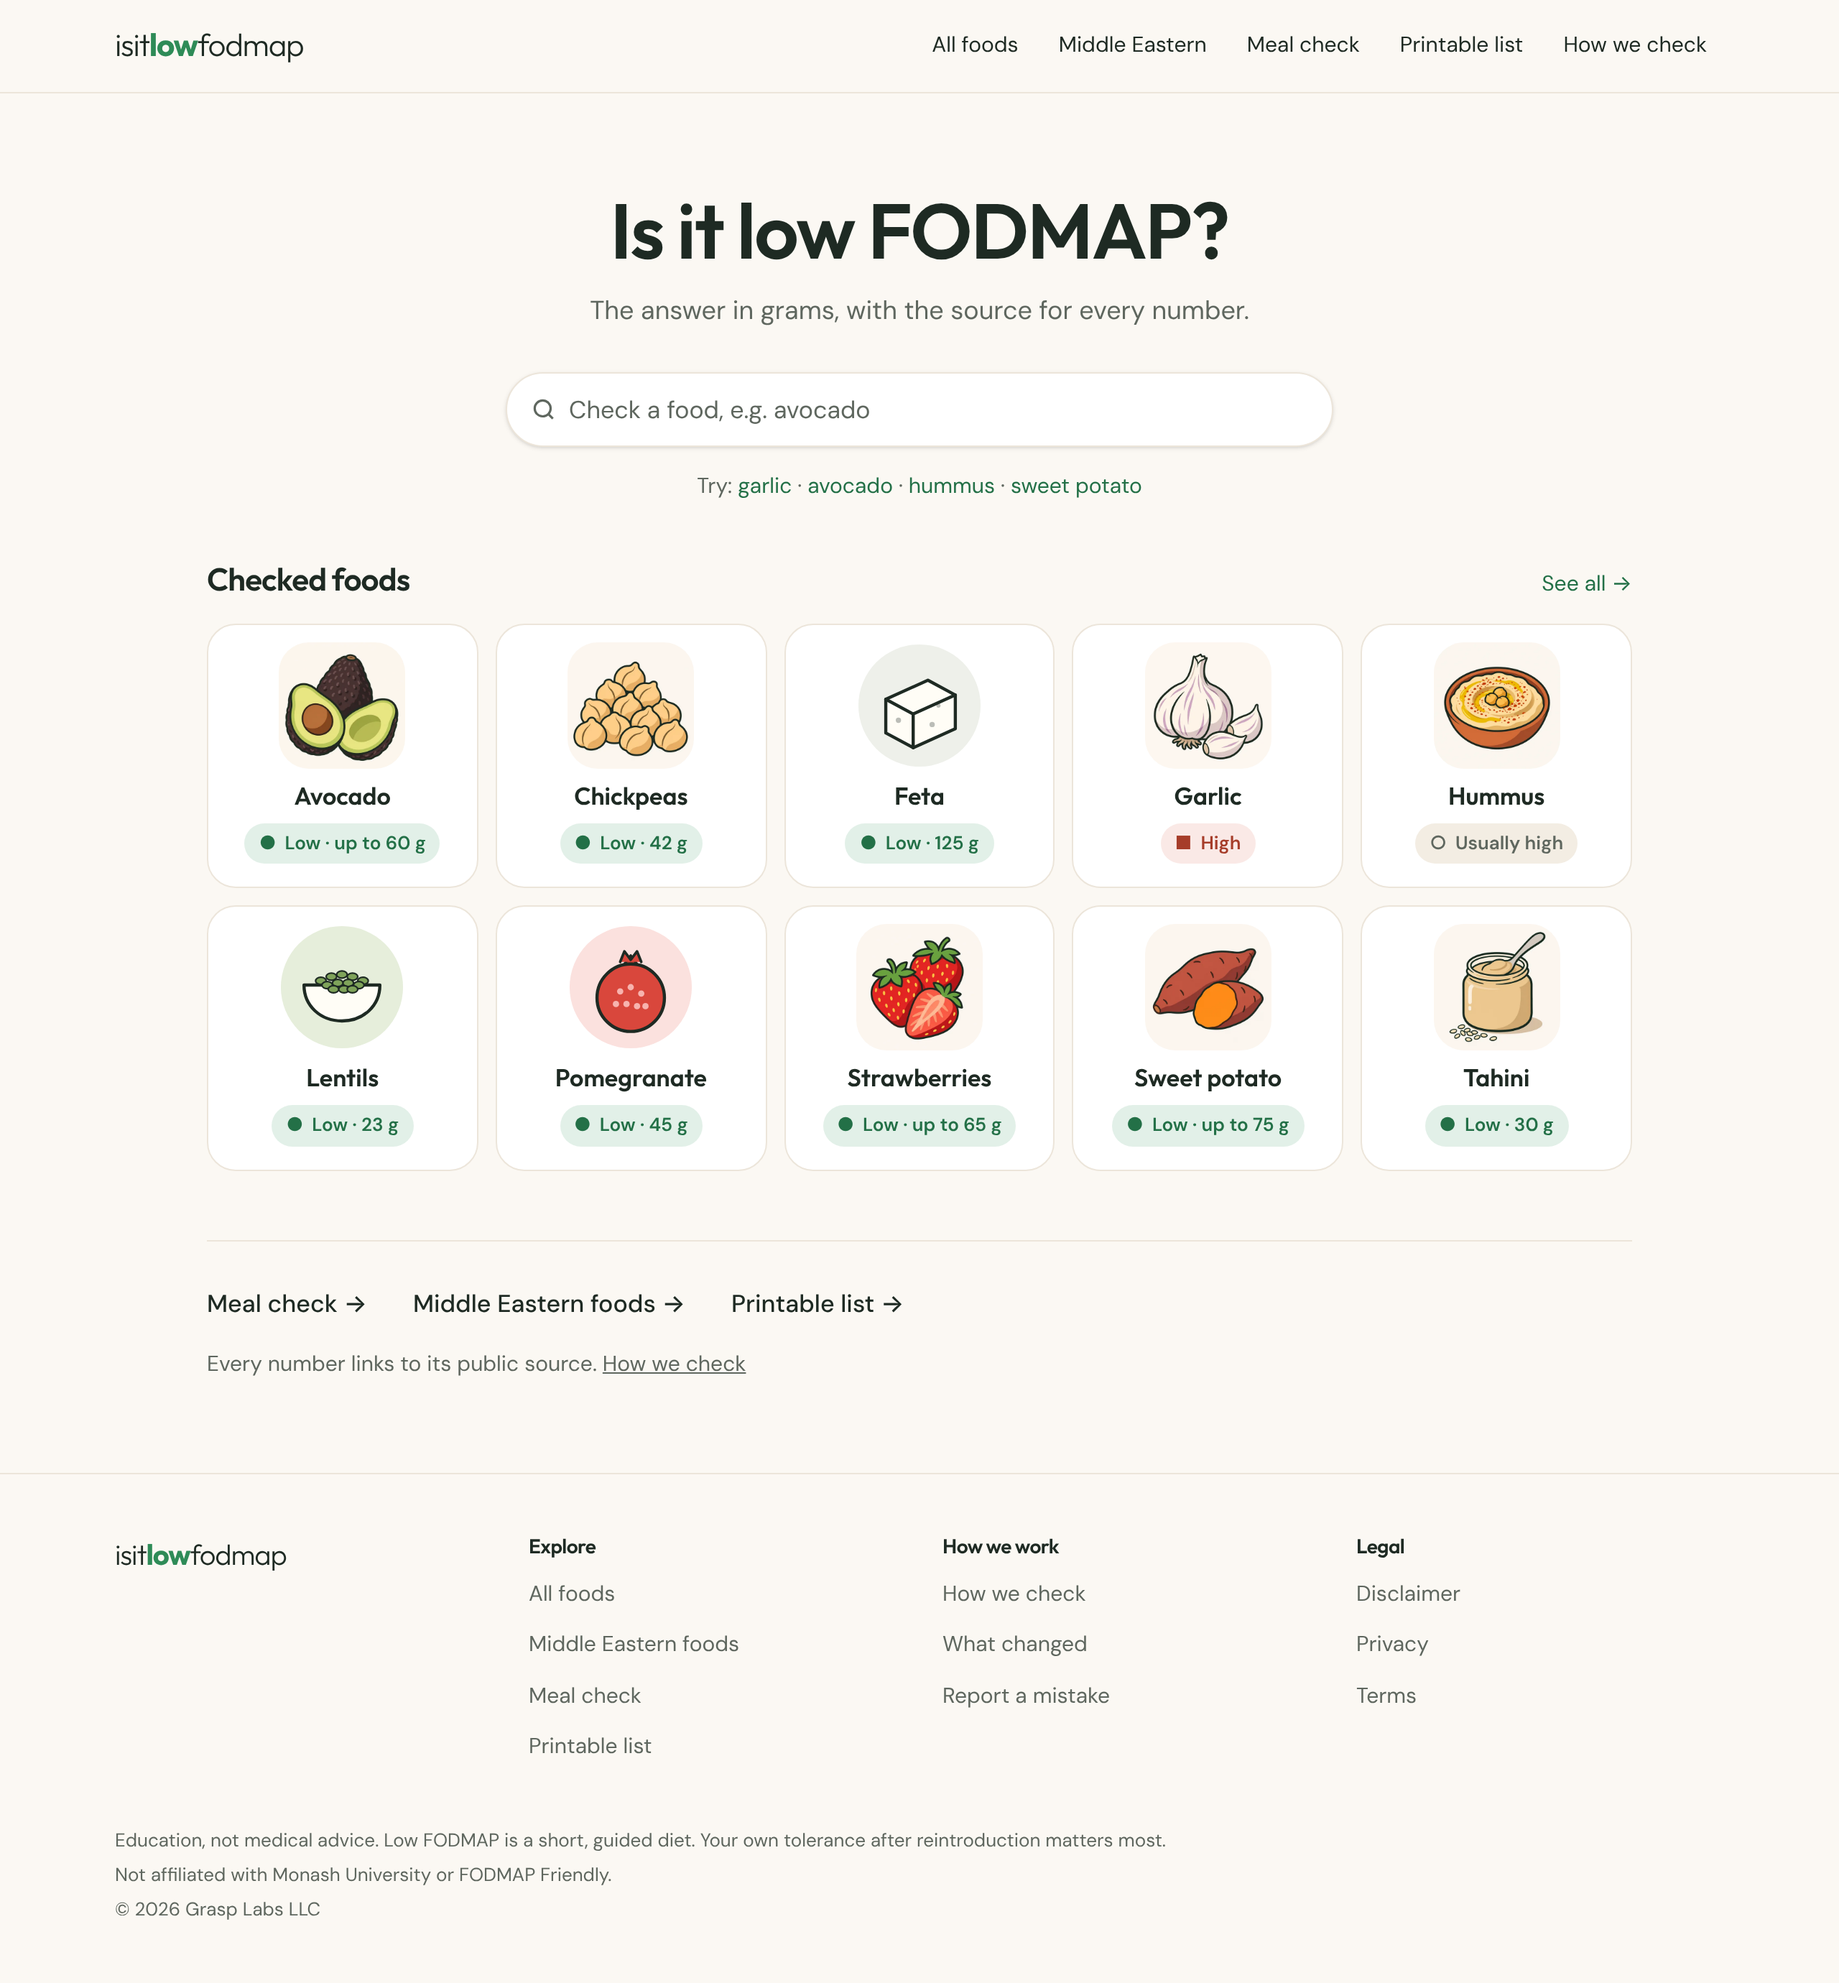
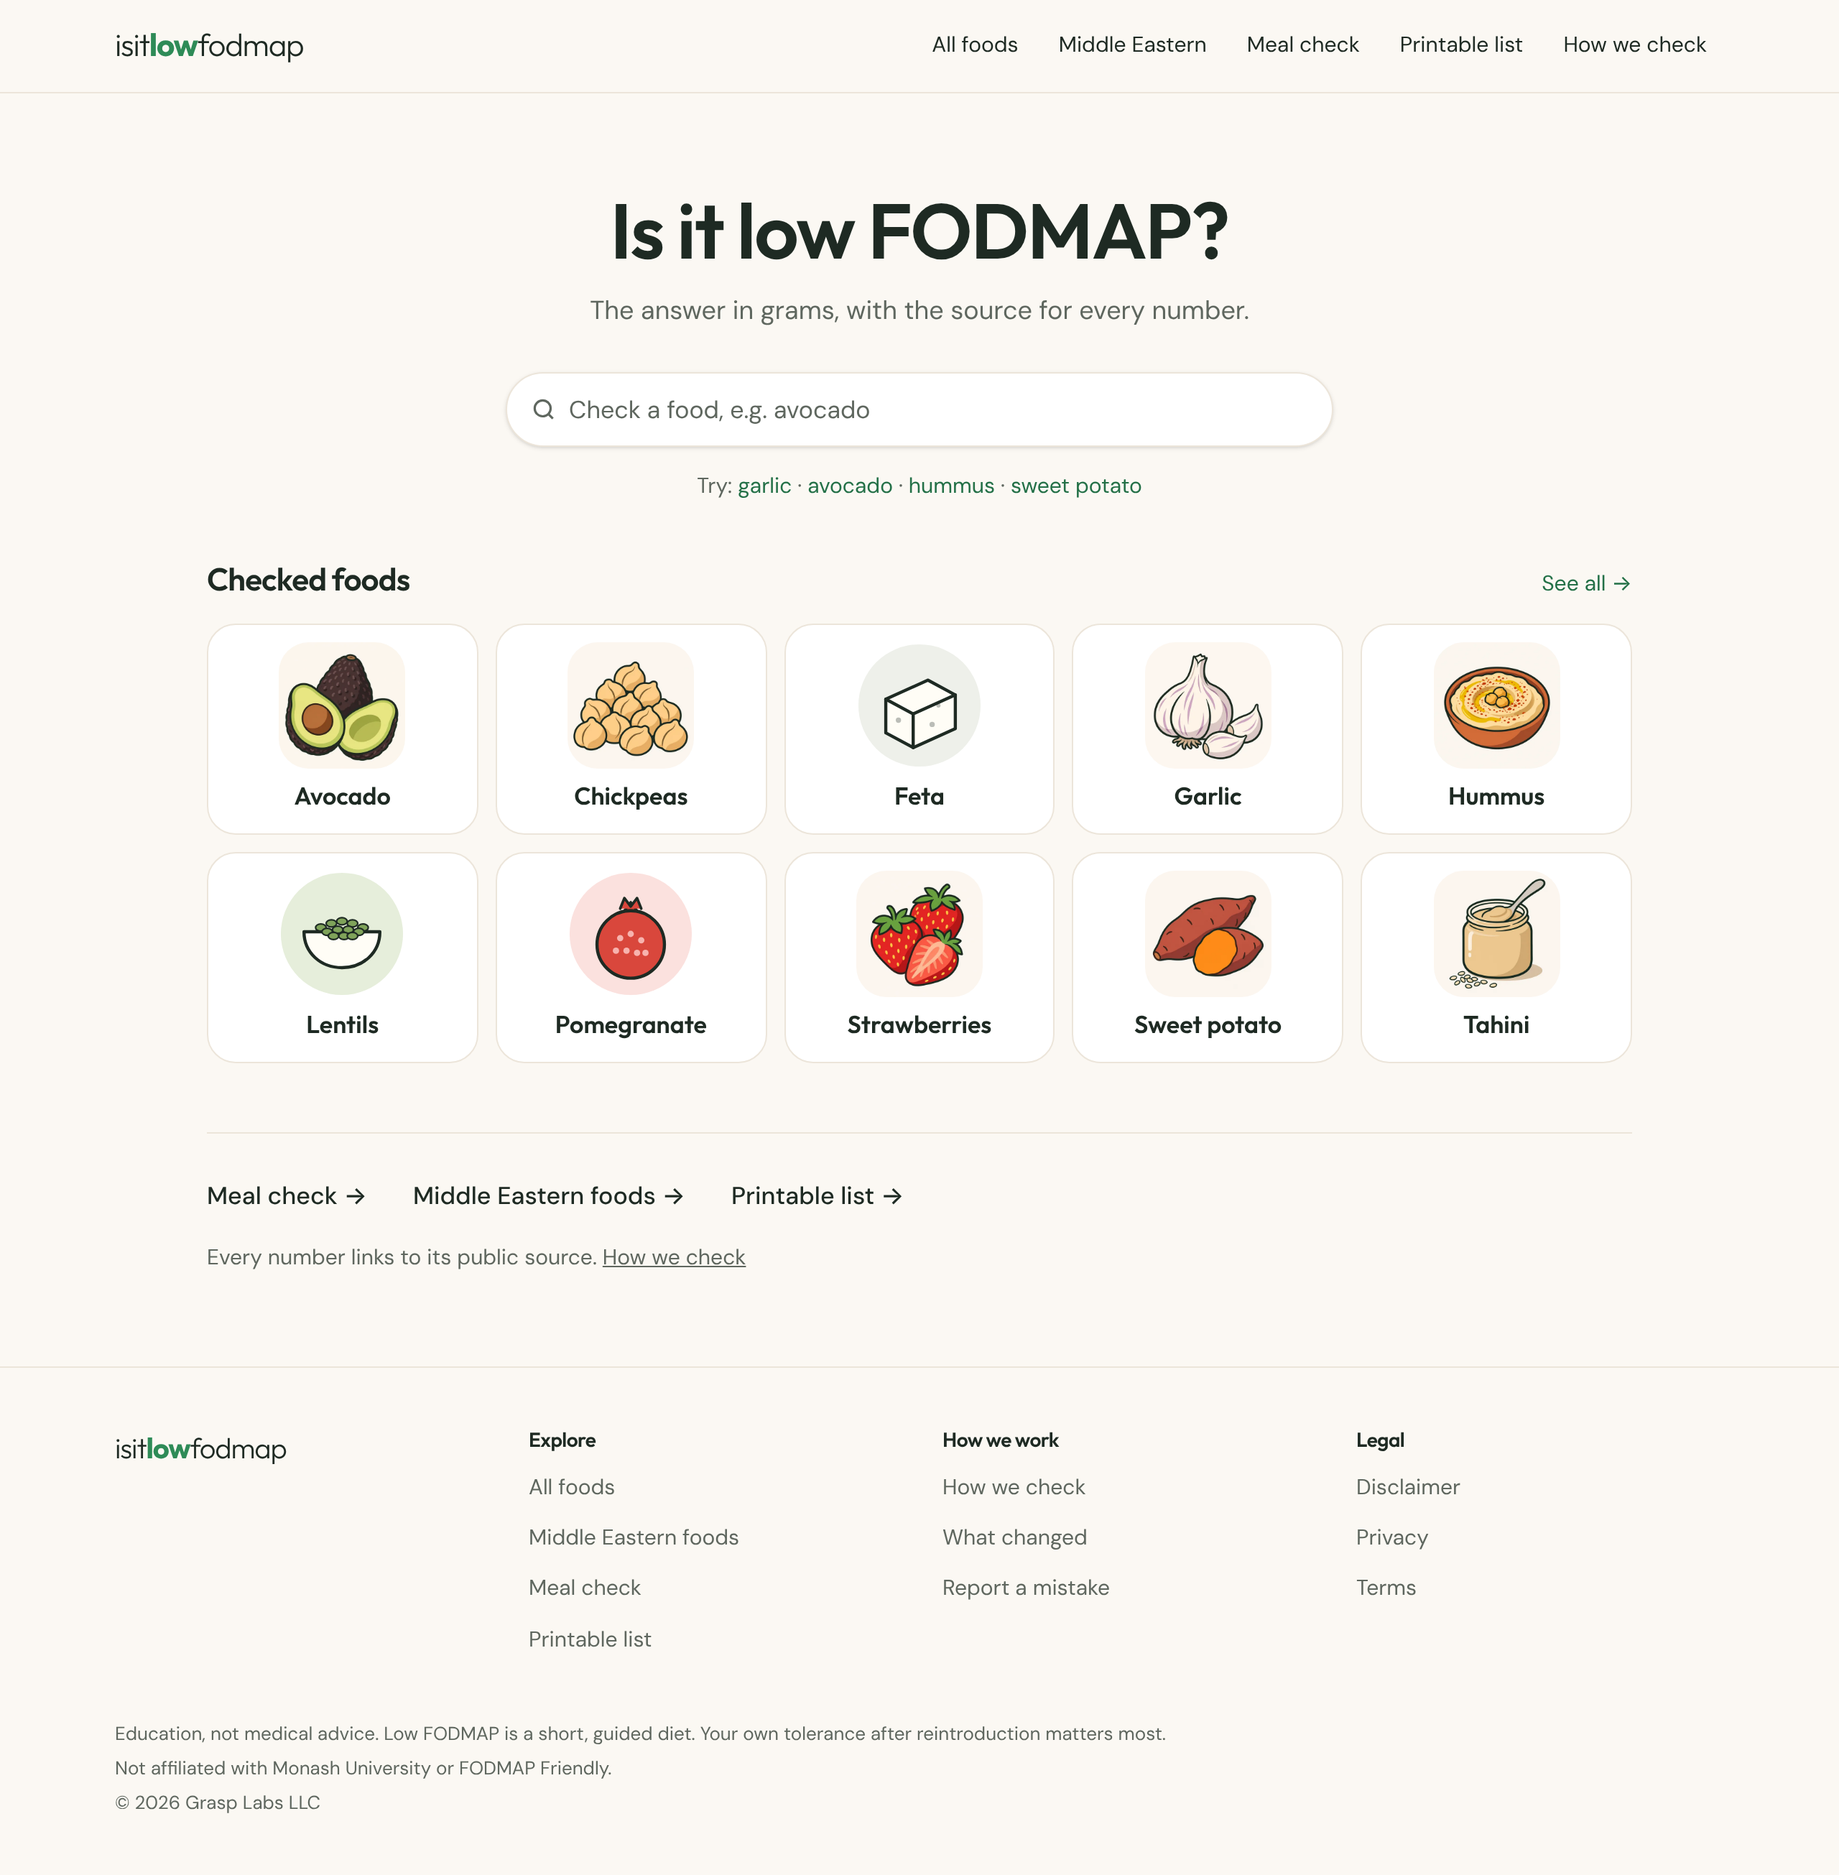
Home: tiles and search results show name and picture only; answers live on food pages
Claude-Session: https://claude.ai/code/session_01Q8GFjWSXATGhzzXd6CdBtz

diff --git a/src/components/FoodSearch.tsx b/src/components/FoodSearch.tsx
@@ -2,7 +2,6 @@
 import Link from "next/link";
 import { useId, useState } from "react";
 import { matches, type IndexItem } from "@/lib/match";
-import { ZONE_STYLE } from "./ZoneChip";
 import { fmt, messages as m } from "@/lib/i18n";
 
 // Search + instant answer + swap finder. Results are plain links, so it works with a keyboard and screen readers.
@@ -26,11 +25,8 @@ export function FoodSearch({ items, autoFocus = false }: { items: IndexItem[]; a
             <li key={it.slug} className="rounded-2xl border border-line bg-card px-4 py-3">
               <Link href={`/food/${it.slug}`} className="flex items-center justify-between gap-3">
                 <span className="text-[17px] font-medium">{it.name[0].toUpperCase() + it.name.slice(1)}</span>
-                <span className="text-[14px] font-semibold"><span aria-hidden className="mr-1">{ZONE_STYLE[it.zone as keyof typeof ZONE_STYLE].shape}</span>{it.chip}</span>
+                <span aria-hidden className="text-muted">→</span>
               </Link>
-              {it.zone === "high" && it.swaps.length > 0 && (
-                <p className="mt-1.5 text-[14px] text-muted">{m.food.tryInstead}: {it.swaps.map((s, i) => (<span key={s.name}>{i ? ", " : ""}{s.slug ? <Link href={`/food/${s.slug}`} className="text-brand-ink underline">{s.name}</Link> : s.name}</span>))}</p>
-              )}
             </li>
           ))}
         </ul>

diff --git a/src/components/FoodTile.tsx b/src/components/FoodTile.tsx
@@ -5,7 +5,7 @@ import { FoodArt } from "./FoodArt";
 import { ZoneChip } from "./ZoneChip";
 
 // One food: picture, name, one Low/High pill with the grams. Kept quiet so a grid of them stays calm.
-export function FoodTile({ food }: { food: Food }) {
+export function FoodTile({ food, showAnswer = true }: { food: Food; showAnswer?: boolean }) {
   const s = food.servings[0];
   const v = verdict(food);
   const chip =
@@ -17,7 +17,7 @@ export function FoodTile({ food }: { food: Food }) {
     <Link href={`/food/${food.slug}`} className="flex flex-col items-center rounded-[var(--radius-card)] border border-line bg-card px-3 pb-4 pt-3 text-center transition-colors hover:border-brand">
       <FoodArt name={food.illustration} size={88} label="" />
       <span className="mt-2 font-display text-[17px] font-semibold leading-tight">{food.name[0].toUpperCase() + food.name.slice(1)}</span>
-      <span className="mt-2"><ZoneChip zone={chip.zone} label={chip.label} /></span>
+      {showAnswer && <span className="mt-2"><ZoneChip zone={chip.zone} label={chip.label} /></span>}
     </Link>
   );
 }

diff --git a/src/app/page.tsx b/src/app/page.tsx
@@ -28,7 +28,7 @@ export default function Home() {
           <Link href="/foods" className="text-[15px] text-brand-ink">See all →</Link>
         </div>
         <ul className="mt-4 grid grid-cols-2 gap-3 sm:grid-cols-3 lg:grid-cols-5">
-          {foods.map((f) => (<li key={f.slug}><FoodTile food={f} /></li>))}
+          {foods.map((f) => (<li key={f.slug}><FoodTile food={f} showAnswer={false} /></li>))}
         </ul>
       </section>
 

diff --git a/docs/MANUAL-TESTS.md b/docs/MANUAL-TESTS.md
@@ -6,8 +6,8 @@ Preview: run locally (see STATUS "How to run") until Cloudflare is connected.
 ## M1: foundation (2026-11-18)
 
 ### Home + search
-- [ ] Open `/`. You see "Is it low FODMAP?", a search box, "Try: garlic · avocado · hummus · sweet potato", then 10 food tiles (picture, name, one Low/High pill), then 3 quiet links.
-- [ ] Type `gar` → Garlic appears with "■ High" and "Try instead: Garlic-infused oil, Spring onion greens, Asafoetida".
+- [ ] Open `/`. You see "Is it low FODMAP?", a search box, "Try: garlic · avocado · hummus · sweet potato", then 10 food tiles (picture and name only, no answer), then 3 quiet links.
+- [ ] Type `gar` → "Garlic →" appears; tapping it opens the garlic page.
 - [ ] Type `zaatar` → "We haven't checked "zaatar" yet."
 - [ ] Type `houmous` (UK spelling) → Hummus appears.
 

diff --git a/docs/DECISIONS.md b/docs/DECISIONS.md
@@ -139,3 +139,6 @@ Owner: "not bad improve the diagrams and maybe on the home page aswell make it c
 - **Answer boxes:** each gets a bowl that fills with the amount (a third, two thirds, full), so "more food = more FODMAP" reads at a glance.
 - **Portion slider:** no stripes (untested is plain grey and labelled), a bigger readout, and tap buttons for the tested amounts.
 - **Home:** search plus "try" chips, calmer tiles (picture, name, one Low/High pill), and one quiet row of links instead of extra cards and paragraphs.
+
+## No answers on the home page (owner, 2026-11-19)
+Owner: "no dont display the details on home page they should click to see". Home tiles and search results show only the picture and name; the answer lives on the food page. (The Middle Eastern hub keeps its Low/High pills for now.)
